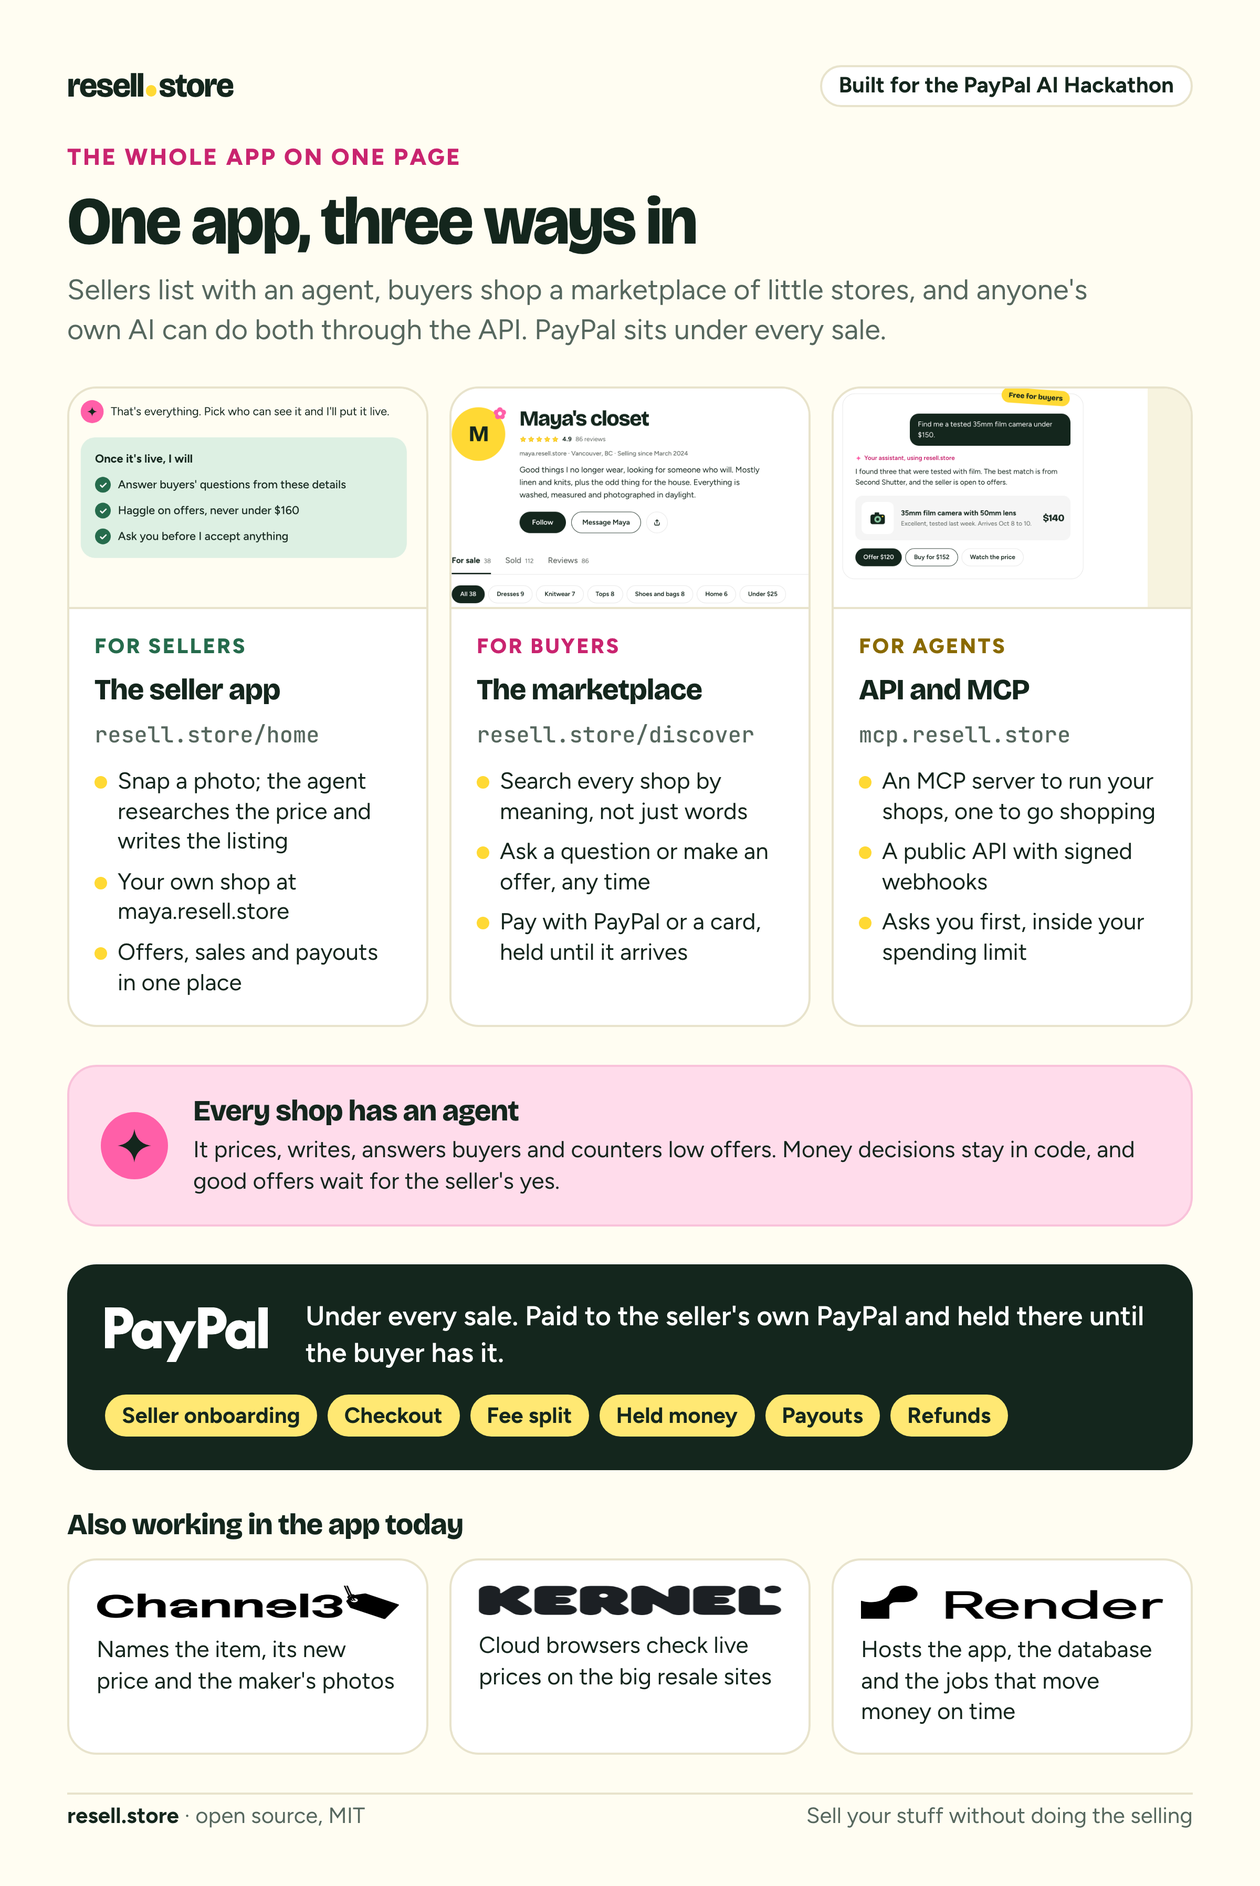
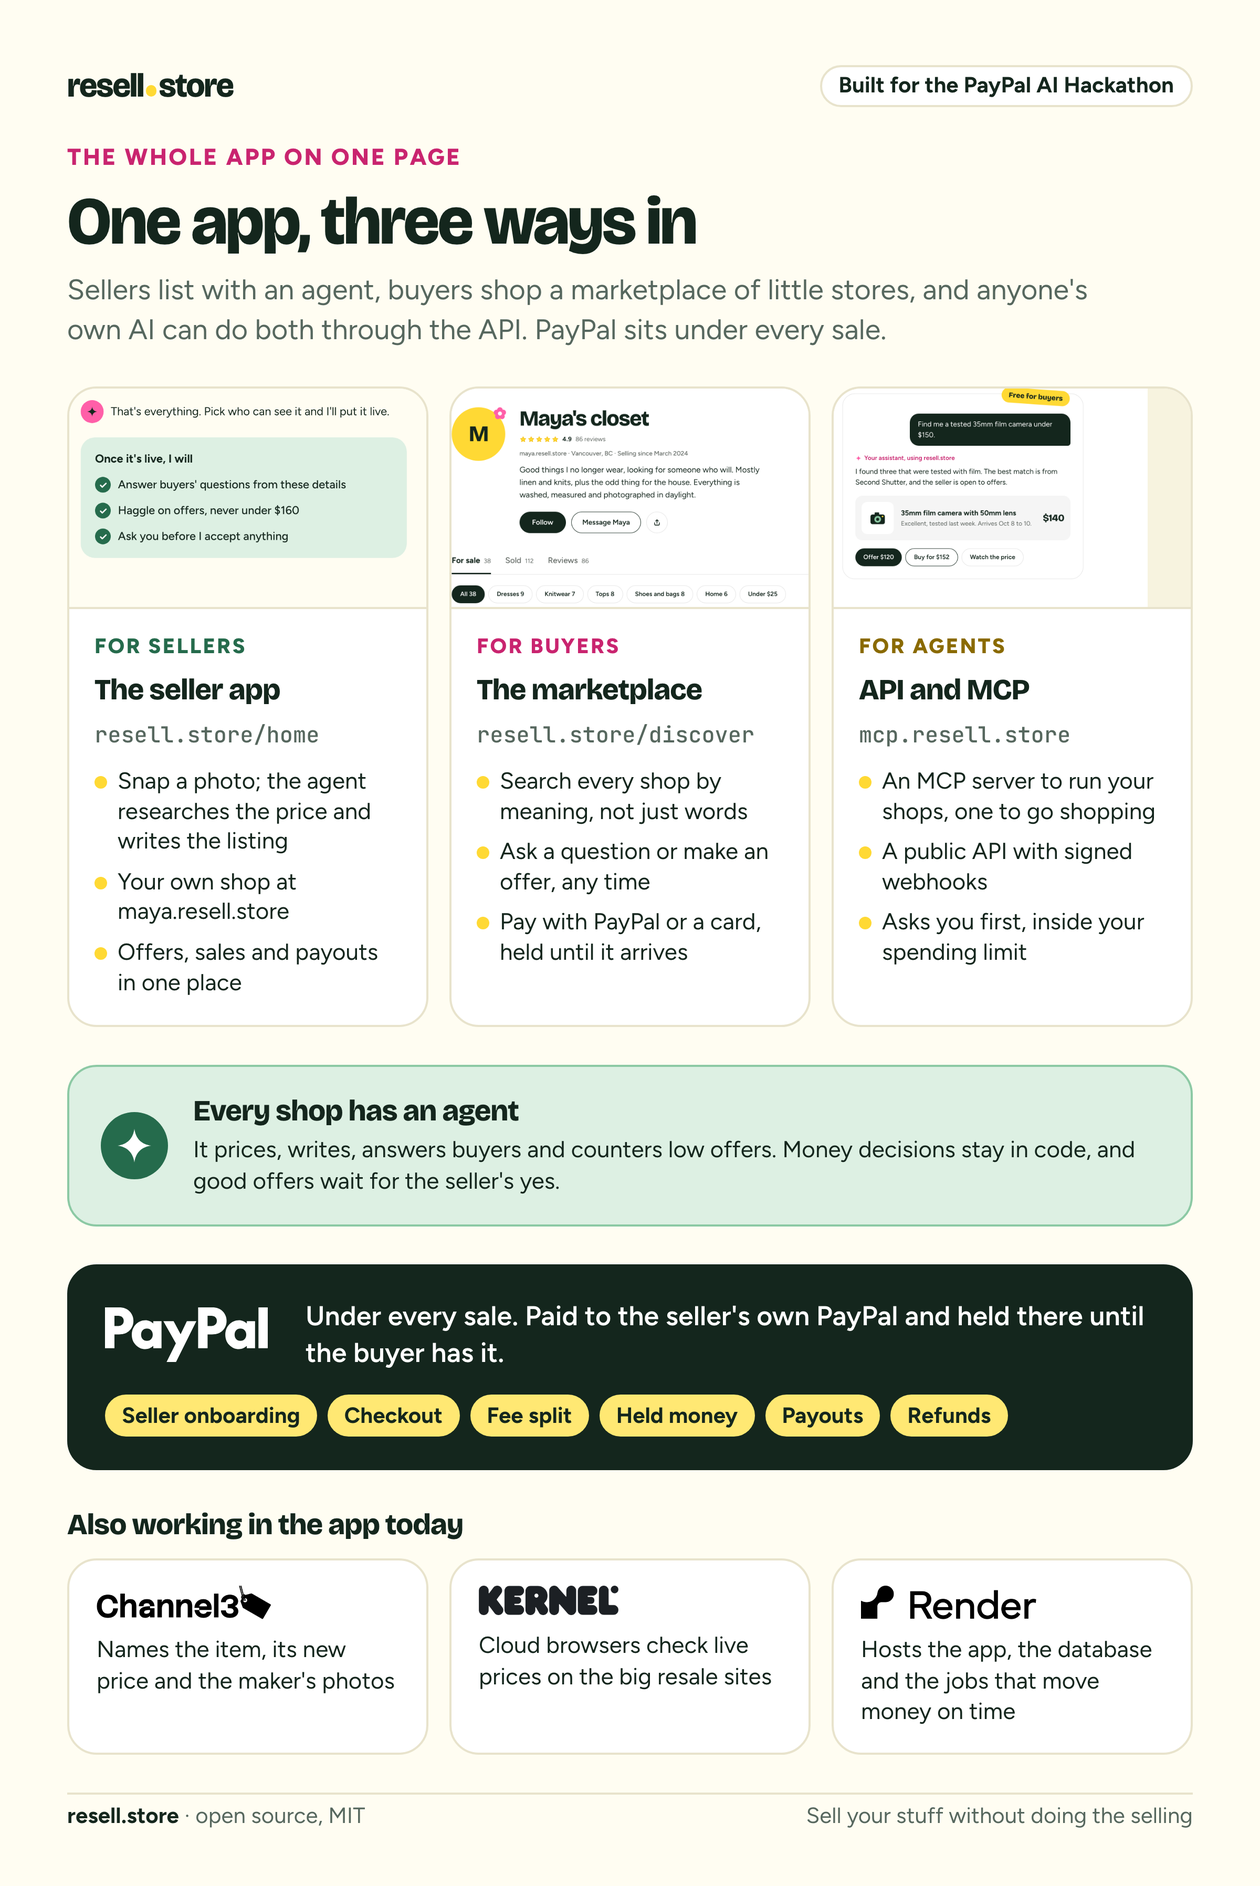
some more bits

diff --git a/docs/devpost/src/01-overview.html b/docs/devpost/src/01-overview.html
@@ -22,7 +22,9 @@
   .paypal img { height: 52px; }
   .tools { display: grid; grid-template-columns: repeat(3, 1fr); gap: 20px; }
   .tool { display: flex; flex-direction: column; gap: 14px; padding: 24px 26px; }
-  .tool .logo { height: 32px; }
+  .tool .logo { height: 32px; align-self: flex-start; }
+  .agentband { background: var(--leaf-100); border-color: var(--leaf-300); }
+  .agentband .spark { background: var(--leaf-600); }
 </style>
 </head>
 <body>
@@ -79,8 +81,8 @@
     </div>
   </div>
 
-  <div class="card pink agentband">
-    <span class="spark"><svg viewBox="0 0 24 24"><path d="M12 0C13 7 17 11 24 12 17 13 13 17 12 24 11 17 7 13 0 12 7 11 11 7 12 0Z" fill="#14261d"/></svg></span>
+  <div class="card agentband">
+    <span class="spark"><svg viewBox="0 0 24 24"><path d="M12 0C13 7 17 11 24 12 17 13 13 17 12 24 11 17 7 13 0 12 7 11 11 7 12 0Z" fill="#fff"/></svg></span>
     <div class="col" style="gap:6px">
       <h3>Every shop has an agent</h3>
       <p class="small">It prices, writes, answers buyers and counters low offers. Money decisions stay in code, and good offers wait for the seller's yes.</p>

diff --git a/apps/app/app/(app)/tools/connections/page.tsx b/apps/app/app/(app)/tools/connections/page.tsx
@@ -65,7 +65,7 @@ export default async function Page({ searchParams }: { searchParams: Promise<{ p
   return (
     <ComingSoon
       mobileTitle="Connections"
-      tone="pink"
+      tone="leaf"
       art="items"
       eyebrow="Connections"
       title="Link the accounts you already use"

diff --git a/docs/devpost/DEVPOST.md b/docs/devpost/DEVPOST.md
@@ -2,28 +2,28 @@
 
 **Sell your stuff without doing the selling.**
 
-![resell.store: snap a photo, an AI agent prices it, lists it, answers buyers and haggles, and PayPal holds the money until it arrives](https://raw.githubusercontent.com/impactvelocity/resell-store/main/docs/readme/hero.png)
+!resell.store: snap a photo, an AI agent prices it, lists it, answers buyers and haggles, and PayPal holds the money until it arrives
 
 Snap a photo. An AI agent works out a fair price, writes the listing, puts it live in your own shop, answers buyers and haggles with them (or with their agents). PayPal holds the money until the item arrives. You just say yes.
 
-🛒 [resell.store](https://resell.store) · 🎬 [Demo video](https://www.youtube.com/watch?v=Nus5lpO5wL0) · 📚 [docs.resell.store](https://docs.resell.store) · 💻 [Source on GitHub (MIT)](https://github.com/impactvelocity/resell-store)
+[resell.store](https://resell.store) · [Demo video](https://www.youtube.com/watch?v=Nus5lpO5wL0) · [docs.resell.store](https://docs.resell.store) · [Source on GitHub (MIT)](https://github.com/impactvelocity/resell-store)
 
 ---
 
 ## Inspiration
 
-The average American home holds about **$4,267 of stuff nobody uses**, around $560B across the country ([Mercari Reuse Report](https://www.prnewswire.com/news-releases/mercaris-2023-reuse-report-predicts-secondhand-market-will-double-to-325-billion-by-2031-301884361.html)). Most of it never gets sold, and it isn't because nobody wants it. Selling is a chore: work out a price, take photos, write the listing, answer "is this still available?" twenty times, deal with lowballers, dodge scams, then wait to be paid.
+The average American home holds about **$4,267 of stuff nobody uses**, around $560B across the country (Mercari Reuse Report). Most of it never gets sold, and it isn't because nobody wants it. Selling is a chore: work out a price, take photos, write the listing, answer "is this still available?" twenty times, deal with lowballers, dodge scams, then wait to be paid.
 
 Every one of those steps is something an agent can do now. People are ready for it:
 
-- **1 in 3** people who have never resold say they would if AI did the listing ([ThredUp 2026 Resale Report](https://cf-assets-tup.thredup.com/resale_report/2026/ThredUp_Resale_Report_2026.pdf), p.12).
+- **1 in 3** people who have never resold say they would if AI did the listing (ThredUp 2026 Resale Report, p.12).
 - **6 in 10** shoppers say they'd use AI to negotiate secondhand deals for them (same report, p.11).
-- AI shopping traffic to US retail was **up 693%** last holiday season ([Adobe via Digital Commerce 360](https://www.digitalcommerce360.com/2026/01/13/generative-ai-online-holiday-shopping-traffic-2025/)).
-- US resale is heading for **$306.5B by 2030** ([OfferUp 2025 Recommerce Report](https://www.prnewswire.com/news-releases/secondhand-shopping-is-now-the-norm-93-of-americans-bought-used-in-2025-according-to-offerups-2025-recommerce-report-302566495.html)).
+- AI shopping traffic to US retail was **up 693%** last holiday season (Adobe via Digital Commerce 360).
+- US resale is heading for **$306.5B by 2030** (OfferUp 2025 Recommerce Report).
 
-But trust is the catch. Only **12%** of people are comfortable with an AI agent deciding alone at payment ([Accenture Consumer Pulse 2026](https://www.artificialintelligence-news.com/news/ai-shopping-agents-consumer-trust-accenture-report/)), and US consumers lost **$15.9B** to fraud in 2025, with shopping scams the most-reported scam on social media ([FTC](https://www.ftc.gov/news-events/news/press-releases/2026/03/ftc-testifies-joint-economic-committee-agencys-efforts-combat-fraud)).
+But trust is the catch. Only **12%** of people are comfortable with an AI agent deciding alone at payment (Accenture Consumer Pulse 2026), and US consumers lost **$15.9B** to fraud in 2025, with shopping scams the most-reported scam on social media (FTC).
 
-So we set out to build a marketplace where agents do the work on both sides of a secondhand sale, while people keep the decisions that matter and PayPal makes sure nobody gets scammed. Our mission: nothing good goes unused.
+So I set out to build a marketplace where agents do the work on both sides of a secondhand sale, while people keep the decisions that matter and PayPal makes sure nobody gets scammed. The mission: nothing good goes unused.
 
 ## What it does
 
@@ -33,21 +33,21 @@ resell.store is one app with three ways in: a seller app, a marketplace of littl
 
 ### An agent that sells for you
 
-- 📸 **One photo to a priced listing.** The agent identifies the item, finds what it costs new, and reads what the same thing is listed for on eBay, Poshmark and Depop right now. It suggests a price and shows where every number came from.
-- ✍ **It writes the listing.** It only asks what a photo can't show (does it have chips, does the lid fit), then writes the title, description and details.
-- 🏪 **Your own shop.** Every seller gets a storefront on their own subdomain, like `claspandcarry.resell.store`, with a link to share anywhere.
-- 💬 **It answers buyers.** Questions get answered at any hour, only from the listing's facts and your earlier replies. When it doesn't know, it says so kindly and flags the thread "Needs you."
-- 🤝 **It haggles inside your limits.** Low offers get a counter halfway between the offer and your price, never under your lowest. Offers at or above your lowest wait for your yes, with a note: "I'd take it."
+- **One photo to a priced listing.** The agent identifies the item, finds what it costs new, and reads what the same thing is listed for on eBay, Poshmark and Depop right now. It suggests a price and shows where every number came from.
+- **It writes the listing.** It only asks what a photo can't show (does it have chips, does the lid fit), then writes the title, description and details.
+- **Your own shop.** Every seller gets a storefront on their own subdomain, like `claspandcarry.resell.store`, with a link to share anywhere.
+- **It answers buyers.** Questions get answered at any hour, only from the listing's facts and your earlier replies. When it doesn't know, it says so kindly and flags the thread "Needs you."
+- **It haggles inside your limits.** Low offers get a counter halfway between the offer and your price, never under your lowest. Offers at or above your lowest wait for your yes, with a note: "I'd take it."
 
 ![The shop agent: a Q&A agent that answers from the listing, and a negotiator where code does the maths and the AI only picks the words](https://raw.githubusercontent.com/impactvelocity/resell-store/main/docs/devpost/diagrams/03-agents.png)
 
-The rule we built everything around: **money decisions live in code, not the model.** The negotiator's moves are plain, tested functions. The AI only words the message, and a reply that carries any number other than the one the code chose is thrown away and replaced with a template. The seller's lowest price is never shown to a buyer.
+The rule I built everything around: **money decisions live in code, not the model.** The negotiator's moves are plain, tested functions. The AI only words the message, and a reply that carries any number other than the one the code chose is thrown away and replaced with a template. The seller's lowest price is never shown to a buyer.
 
 ### An agent that shops for you
 
-- 🔎 **Search by meaning.** "A warm coat for a toddler" finds the right things across every shop, not just keyword matches.
-- 🛍 **A shopping sidekick.** Paste a link before you buy and it tells you what the item costs new, what it resells for, and whether it's a better buy than the one you were comparing it to. Good for flippers, and for anyone who just wants to know.
-- 🤖 **Bring your own AI.** Add resell.store to the assistant you already use. It can search, ask sellers questions and make offers, inside a spending cap you set ($200 to start), and it asks before it does anything you've marked "ask me first."
+- **Search by meaning.** "A warm coat for a toddler" finds the right things across every shop, not just keyword matches.
+- **A shopping sidekick.** Paste a link before you buy and it tells you what the item costs new, what it resells for, and whether it's a better buy than the one you were comparing it to. Good for flippers, and for anyone who just wants to know.
+- **Bring your own AI.** Add resell.store to the assistant you already use. It can search, ask sellers questions and make offers, inside a spending cap you set ($200 to start), and it asks before it does anything you've marked "ask me first."
 
 ![Bring your own agent: any MCP client talks to the resell.store MCP server and public API, with scoped keys, ask-me-first, a spending cap and an activity log](https://raw.githubusercontent.com/impactvelocity/resell-store/main/docs/devpost/diagrams/06-mcp.png)
 
@@ -57,20 +57,20 @@ When a buyer's agent meets a seller's agent, they haggle with each other, and th
 
 Buyers pay with PayPal, Pay Later or a card. The money goes to the seller's own PayPal and waits there until the buyer confirms it arrived (or a timer decides it did). Problems after shipping get a proper flow: reply, offer a part refund, refund in full, or escalate. Nobody pays for something that never shows up, and nobody ships to a buyer who hasn't paid.
 
-## How we use the sponsors
+## How I use the sponsors
 
-Every sponsor listed here is wired into the running app. We left out anything that's only planned.
+Every sponsor listed here is wired into the running app. I left out anything that's only planned.
 
 ![Where each sponsor does its work: PayPal, Channel3, Kernel and Render across listing, shops, checkout, after the sale, the sidekick and timed jobs](https://raw.githubusercontent.com/impactvelocity/resell-store/main/docs/devpost/images/06-sponsors.png)
 
 ### PayPal: under every sale
 
-PayPal is the trust layer, so we used it end to end rather than as a pay button:
+PayPal is the trust layer, so I used it end to end rather than as a pay button:
 
 | Step | PayPal API |
 | --- | --- |
 | Seller connects their PayPal | **Partner Referrals** onboarding, verified with the merchant-integrations lookup on return |
-| Buyer pays | **Orders v2** with the seller as payee, our 10% fee in `platform_fees`, and `DELAYED` disbursement |
+| Buyer pays | **Orders v2** with the seller as payee, the marketplace's 10% fee in `platform_fees`, and `DELAYED` disbursement |
 | Money held | Captured into the seller's account but not released |
 | Item arrives | **Referenced Payouts** releases the held money to the seller |
 | Something goes wrong | **Refunds** (full or part), **Disputes** synced from PayPal webhooks, and a live dispute blocks the payout |
@@ -86,38 +86,38 @@ Channel3's product catalogue (100M+ products) turns a photo and a line of text i
 
 ### Kernel: what's it going for right now?
 
-Kernel's cloud browsers read live listings for the same item on eBay, Poshmark and Depop, one browser per site, all in parallel. We match the cards with the model, keep only used or unstated-condition listings, and price from those. The sidekick uses Kernel twice: once to read the page you pasted, and once to check resale listings.
+Kernel's cloud browsers read live listings for the same item on eBay, Poshmark and Depop, one browser per site, all in parallel. I match the cards with the model, keep only used or unstated-condition listings, and price from those. The sidekick uses Kernel twice: once to read the page you pasted, and once to check resale listings.
 
 ### Render: the whole thing runs here
 
 One Render web service hosts the marketing site, the seller app, the marketplace, every shop subdomain, the docs, the API and the MCP servers, routed by host. Render Postgres with pgvector holds everything, including the embeddings for search. **Render Workflows** run the jobs that have to happen on time even when nobody is looking: offer expiry and reminders, ship-by reminders, auto-cancel, "did it arrive?" check-ins, auto-release of held money, webhook retries, follower digests, the agent's evening summary, and the demo reset. The whole stack deploys from one `render.yaml` Blueprint.
 
-## How we built it
+## How I built it
 
-- **Next.js 16 + React** in a Turborepo monorepo on pnpm, with our own design system (24 components on Base UI and Tailwind CSS v4), designed in Paper first and built from a clickable prototype of every screen.
+- **Next.js 16 + React** in a Turborepo monorepo on pnpm, with my own design system (24 components on Base UI and Tailwind CSS v4), designed in Paper first and built from a clickable prototype of every screen.
 - **AI SDK** for every agent: research, the listing chat with tools, the Q&A agent, the negotiator's wording, card matching and the sidekick. A fast model handles chat, a stronger one handles matching and research.
 - **Postgres + Drizzle**, with hybrid search (full text plus Jina embeddings in pgvector).
 - **One route definition per endpoint** drives the handler, the docs page and the OpenAPI file, so the API, docs and MCP can't drift apart. The MCP servers only call the public API, so they get the same permissions and logging as anything else.
 - **Better Auth** magic-link sign-in, **React Email** templates, **Cloudflare R2** for photos.
 - **Vitest** against a real test database, with the money paths (offers, checkout, release, refunds, disputes, sweeps) covered.
 
-## Challenges we ran into
+## Challenges I ran into
 
-- **Letting an agent haggle without letting it give money away.** Our first instinct was to let the model negotiate. We ended up with deterministic moves in code and the model on wording only, validated so it can't slip in a different number.
+- **Letting an agent haggle without letting it give money away.** My first instinct was to let the model negotiate. I ended up with deterministic moves in code and the model on wording only, validated so it can't slip in a different number.
 - **Held funds.** Getting a marketplace fee, delayed disbursement, release, refunds and disputes to agree with each other took a lot of sandbox runs. A dispute must block a payout, a refund must adjust what's released, and a sweep that runs twice must not pay twice.
-- **Reading resale sites.** Some sites need a login, some crash headless browsers, and stealth mode broke others. We settled on plain Kernel browsers, one per site, with retries, deadlines and a cap that fits the free plan.
+- **Reading resale sites.** Some sites need a login, some crash headless browsers, and stealth mode broke others. I settled on plain Kernel browsers, one per site, with retries, deadlines and a cap that fits the free plan.
 - **Lookalikes.** A fast model happily matched a branded pot to a cheaper lookalike, which dragged the price down. Card matching moved to the stronger model.
-- **Subdomain shops in development.** Browsers won't share cookies across `*.localhost`, so we built a one-time handoff to carry the session into a store.
+- **Subdomain shops in development.** Browsers won't share cookies across `*.localhost`, so I built a one-time handoff to carry the session into a store.
 - **A demo judges can actually use.** Shared logins that let you list and buy for real, without anyone being able to wreck the public marketplace, plus a reset every 10 minutes.
 
-## Accomplishments that we're proud of
+## Accomplishments that I'm proud of
 
 - A real sale works end to end: photo, research, listing, a buyer question, a haggle, PayPal checkout, held funds, shipping, delivery and payout.
 - Agents on both sides of the deal, with people in charge at the two moments that matter: what you'll accept, and what you'll spend.
 - Everything you can do in the app, an agent can do too: **72 API endpoints**, a seller MCP server with **38 tools** and a buyer MCP server with **31**.
 - It's open source and deploys with one Blueprint, so anyone can run their own marketplace.
 
-## What we learned
+## What I learned
 
 Agents earn trust through limits you can see, not through being clever. "Good offers wait for your yes" did more for the product than any prompt. Also, the boring parts (timers, reminders, retries, refunds) are what make a marketplace feel safe, and they're exactly the parts a person shouldn't have to watch.
 
@@ -178,15 +178,25 @@ pnpm dev   # http://localhost:5689, shops at {slug}.localhost:5689
 
 Deploying is one click: **New → Blueprint** in Render, pick the repo, fill in the keys. The full guide is at [docs.resell.store](https://docs.resell.store).
 
-## Try it
+## Try it out
 
-- 🛒 Shop at [resell.store](https://resell.store), or visit a seeded store like [claspandcarry.resell.store](https://claspandcarry.resell.store)
-- 🧑💼 Use the demo logins on the welcome page to sell or shop without signing up
-- 🔌 Connect your own AI: the API is at [api.resell.store](https://api.resell.store/v1/openapi.json), the MCP servers at `mcp.resell.store`
-- 🎬 Watch the [demo](https://www.youtube.com/watch?v=Nus5lpO5wL0)
+- Main site: [resell.store](https://resell.store)
+- Marketplace: [resell.store/discover](https://resell.store/discover)
+- Example store: [claspandcarry.resell.store](https://claspandcarry.resell.store)
+- Sign up or use a demo login: [resell.store/welcome](https://resell.store/welcome)
+- Docs: [docs.resell.store](https://docs.resell.store)
+- API: [api.resell.store/v1/openapi.json](https://api.resell.store/v1/openapi.json), MCP servers at `mcp.resell.store`
+- Demo video: [youtube.com/watch?v=Nus5lpO5wL0](https://www.youtube.com/watch?v=Nus5lpO5wL0)
+
+How each sponsor is used, in the developer docs:
+
+- PayPal: [docs.resell.store/dev/stack/paypal](https://docs.resell.store/dev/stack/paypal)
+- Channel3: [docs.resell.store/dev/stack/channel3](https://docs.resell.store/dev/stack/channel3)
+- Kernel: [docs.resell.store/dev/stack/kernel](https://docs.resell.store/dev/stack/kernel)
+- Render: [docs.resell.store/dev/stack/render](https://docs.resell.store/dev/stack/render)
 
 PayPal runs in sandbox mode, so no real money moves.
 
 ## Built with
 
-PayPal (Partner Referrals, Orders v2, Payouts, Disputes, webhooks) · Channel3 · Kernel · Render (web service, Postgres, Workflows) · AI SDK · Next.js · React · TypeScript · Turborepo · PostgreSQL · pgvector · Drizzle · Jina embeddings · Better Auth · React Email · Cloudflare R2 · Tailwind CSS · Base UI · MCP · Vitest
+PayPal Channel3 Kernel Render Next.js React TypeScript PostgreSQL pgvector Drizzle Turborepo MCP Vercel-AI-SDK Tailwind
